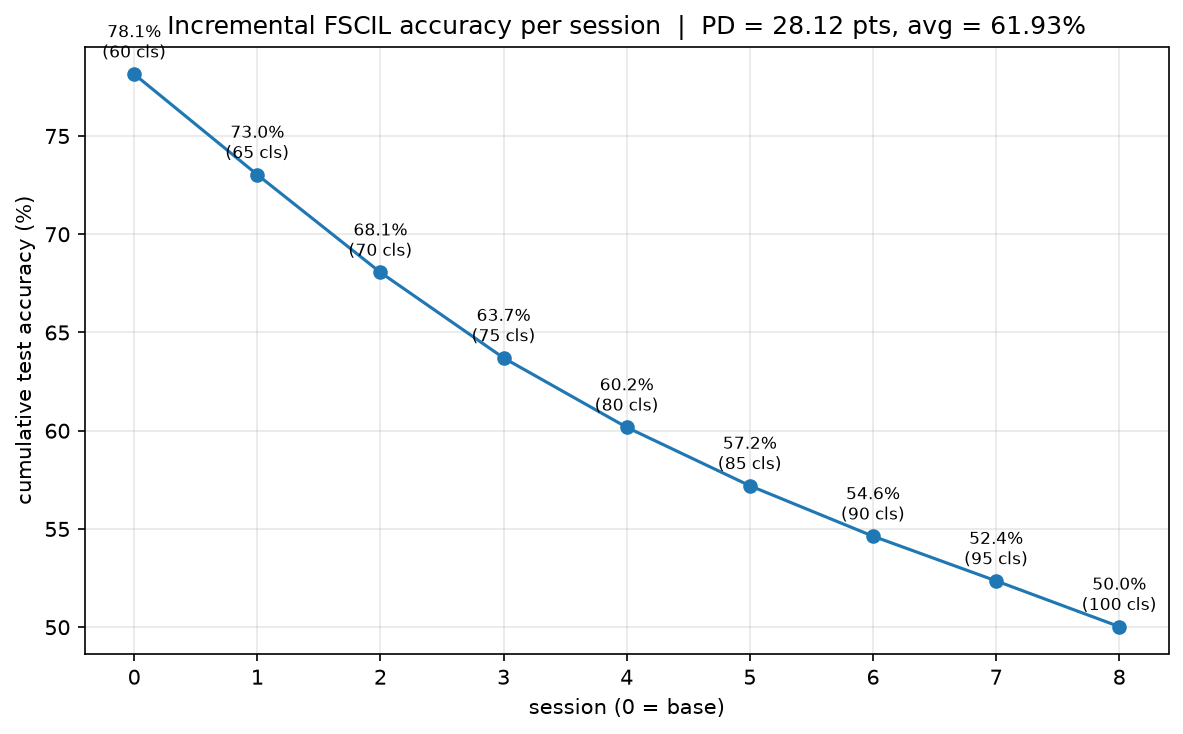
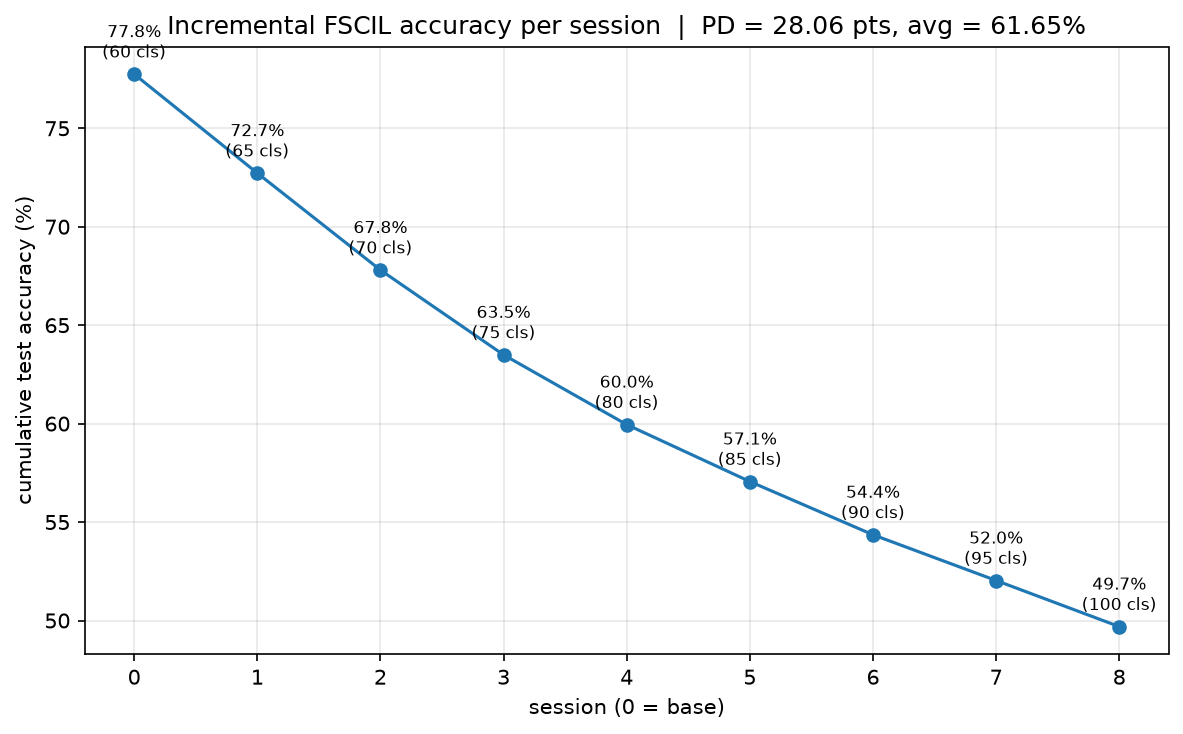
CIFAR-100 ablate-topology (rescored) result: base 77.75%, final 49.69%, PD 28.06, avg 61.65%, A_B 70.98%, A_N 17.75%, HM 28.40%
Auto-committed by the training orchestrator.

Claude-Session: https://claude.ai/code/session_01GDGJYxSeGz7wbgpdPrPcEm

diff --git a/results/REPORT.md b/results/REPORT.md
@@ -1,6 +1,6 @@
 # STAG-STI — Results & Analysis
 
-_Generated 2026-09-08 18:51 • auto-updated as runs complete._
+_Generated 2026-09-08 18:52 • auto-updated as runs complete._
 
 ## In-domain results
 
@@ -31,7 +31,7 @@ _CUB-200 baselines from the Review-1 deck; CIFAR-100 / miniImageNet baselines ar
 |---|---|---|---|---|
 | Full model | 78.22 | 49.53 | 28.69 | 62.08 |
 | − supcon | 78.53 | 49.28 | 29.25 | 62.00 |
-| − topology | 78.15 | 50.03 | 28.12 | 61.93 |
+| − topology | 77.75 | 49.69 | 28.06 | 61.65 |
 | − agedecay | 78.60 | 49.51 | 29.09 | 62.14 |
 
 ## Per-session curves
